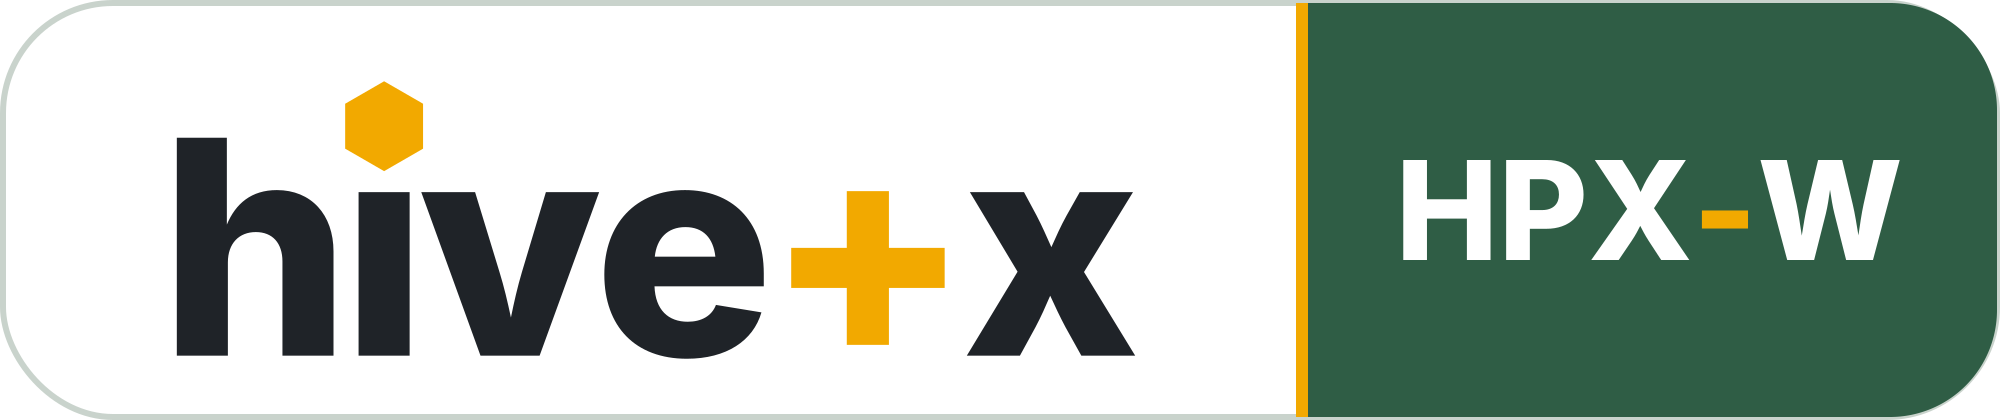
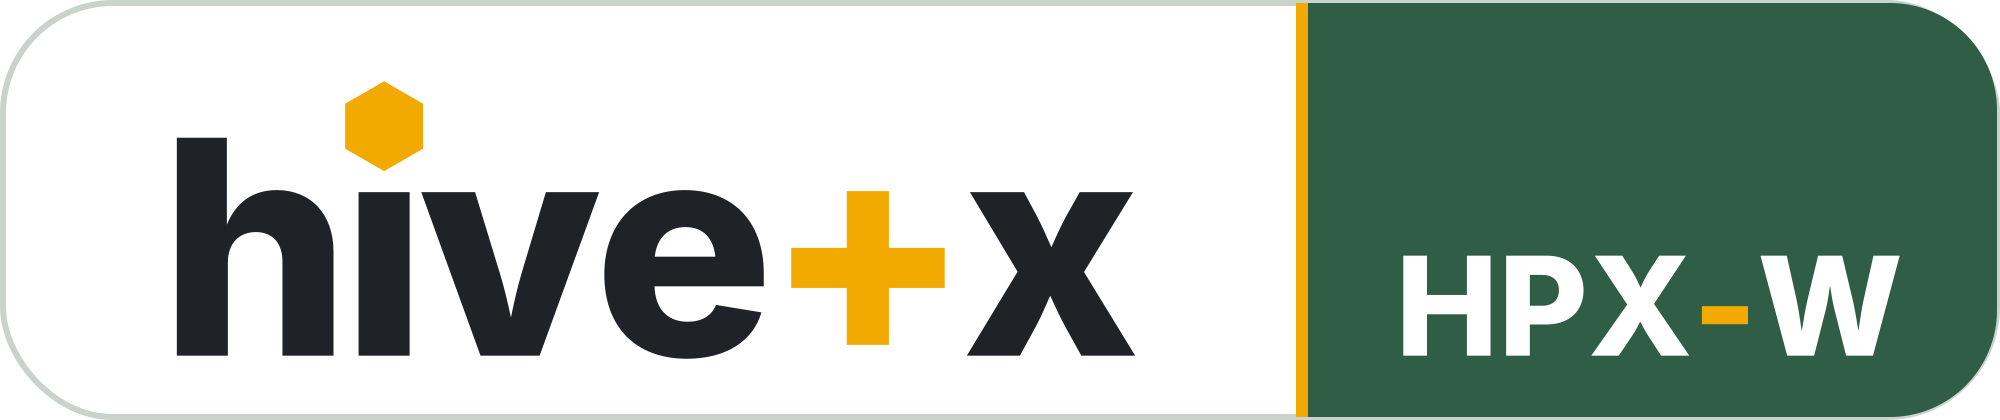
HPX-W の横長ステッカー: HPX-W の字の下を hive+x のベースラインにそろえる
Claude-Session: https://claude.ai/code/session_01LCC9B25pKk7N3FQPj8NtUw

Changed region(s): [[0.682, 0.3714, 0.961, 0.8667]]

diff --git a/brand/sticker/mk_sticker.py b/brand/sticker/mk_sticker.py
@@ -176,11 +176,14 @@ def W_wide():
     # D_white を横に並べかえた形
     W, H, R = 2000, 420, 110
     cut = 1300   # 白と緑の境目
+    # hive+x の字の下の線 (ベースライン、ロゴの y=0) に HPX-W の字の下をそろえる (2026-11-21 TARO 要望)
+    lw = 980; lk = lw / (LOGO_BOX[2] - LOGO_BOX[0])
+    base = (H / 2 + 10) - (LOGO_BOX[1] + LOGO_BOX[3]) / 2 * lk
     body = (f'<rect x="3" y="3" width="{W-6}" height="{H-6}" rx="{R}" fill="{WHITE}" stroke="{LINE}" stroke-width="6"/>'
-            + logo_g(cut / 2, H / 2 + 10, 980, CHAR)
+            + logo_g(cut / 2, H / 2 + 10, lw, CHAR)
             + f'<path fill="{FOREST}" d="M{cut} 3H{W-R}A{R-3} {R-3} 0 0 1 {W-3} {R}V{H-R}A{R-3} {R-3} 0 0 1 {W-R} {H-3}H{cut}Z"/>'
             + f'<rect x="{cut-4}" y="3" width="12" height="{H-6}" fill="{HONEY}"/>'
-            + dev_g('W', (cut + 6 + W - 3) / 2, H / 2, height=100, width=W - cut - 140))
+            + dev_g('W', (cut + 6 + W - 3) / 2, base - 100 / 2, height=100, width=W - cut - 140))
     return (f'<svg xmlns="http://www.w3.org/2000/svg" viewBox="0 0 {W} {H}" width="100mm" height="21mm">'
             + body + '</svg>')
 
